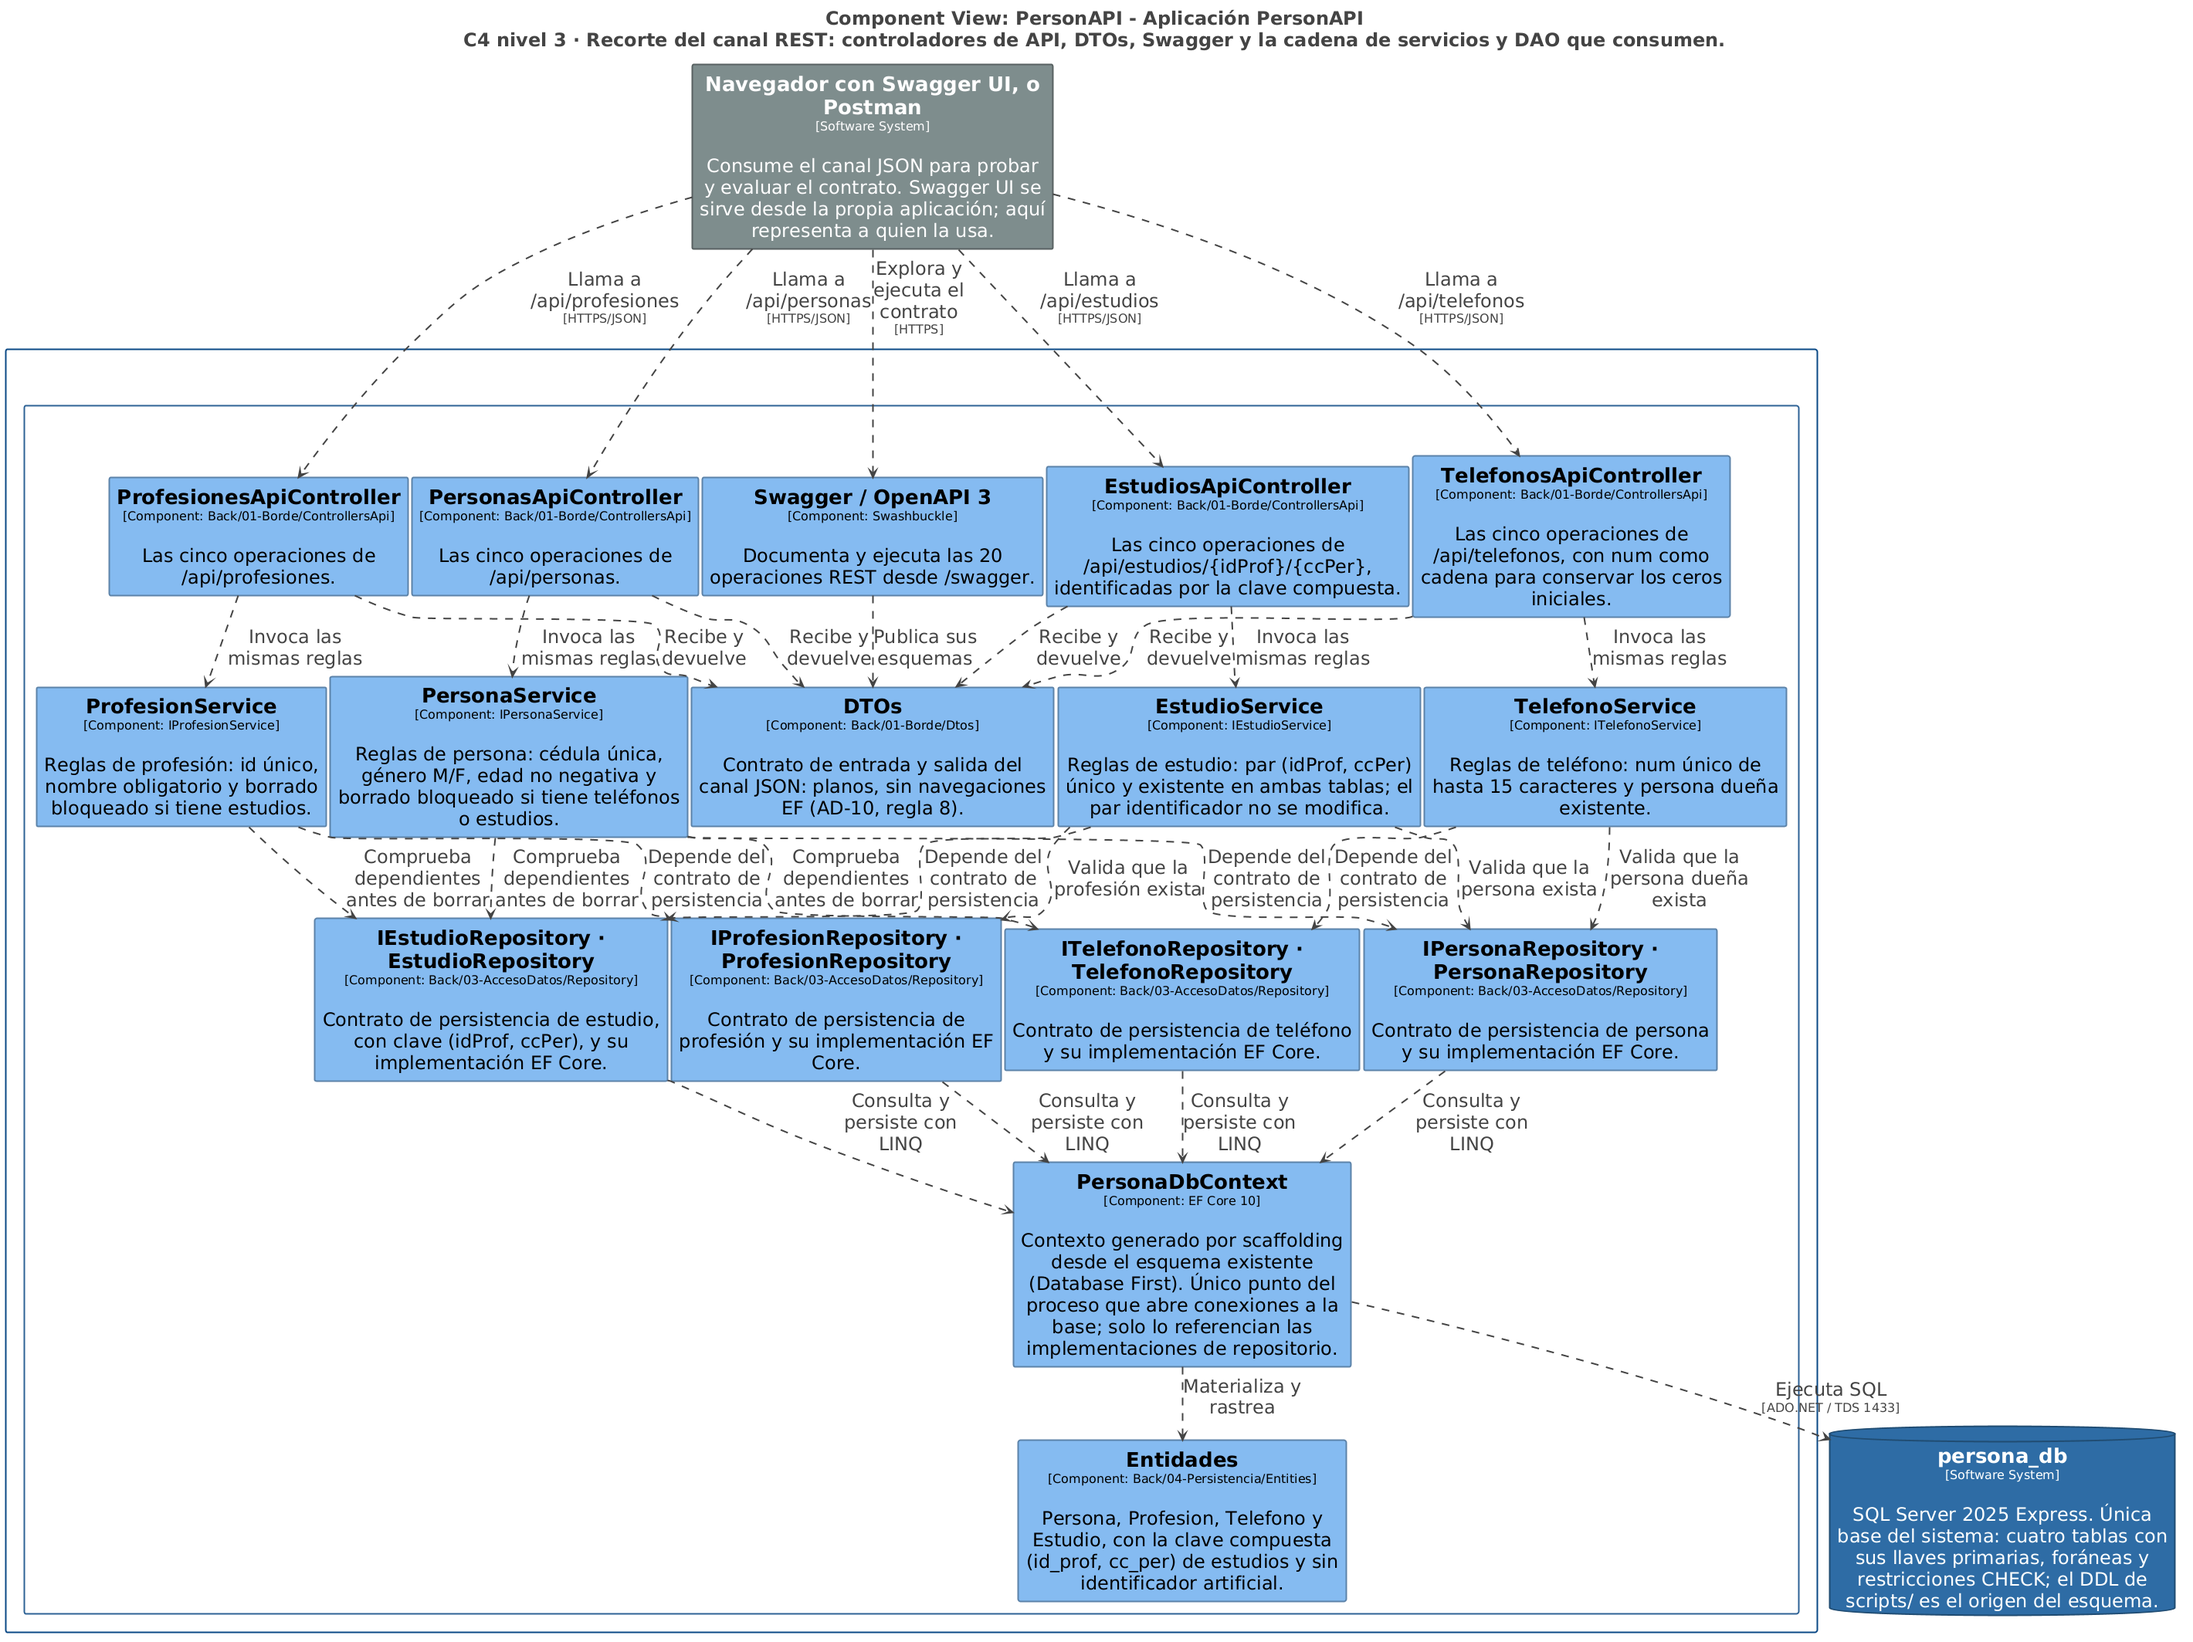
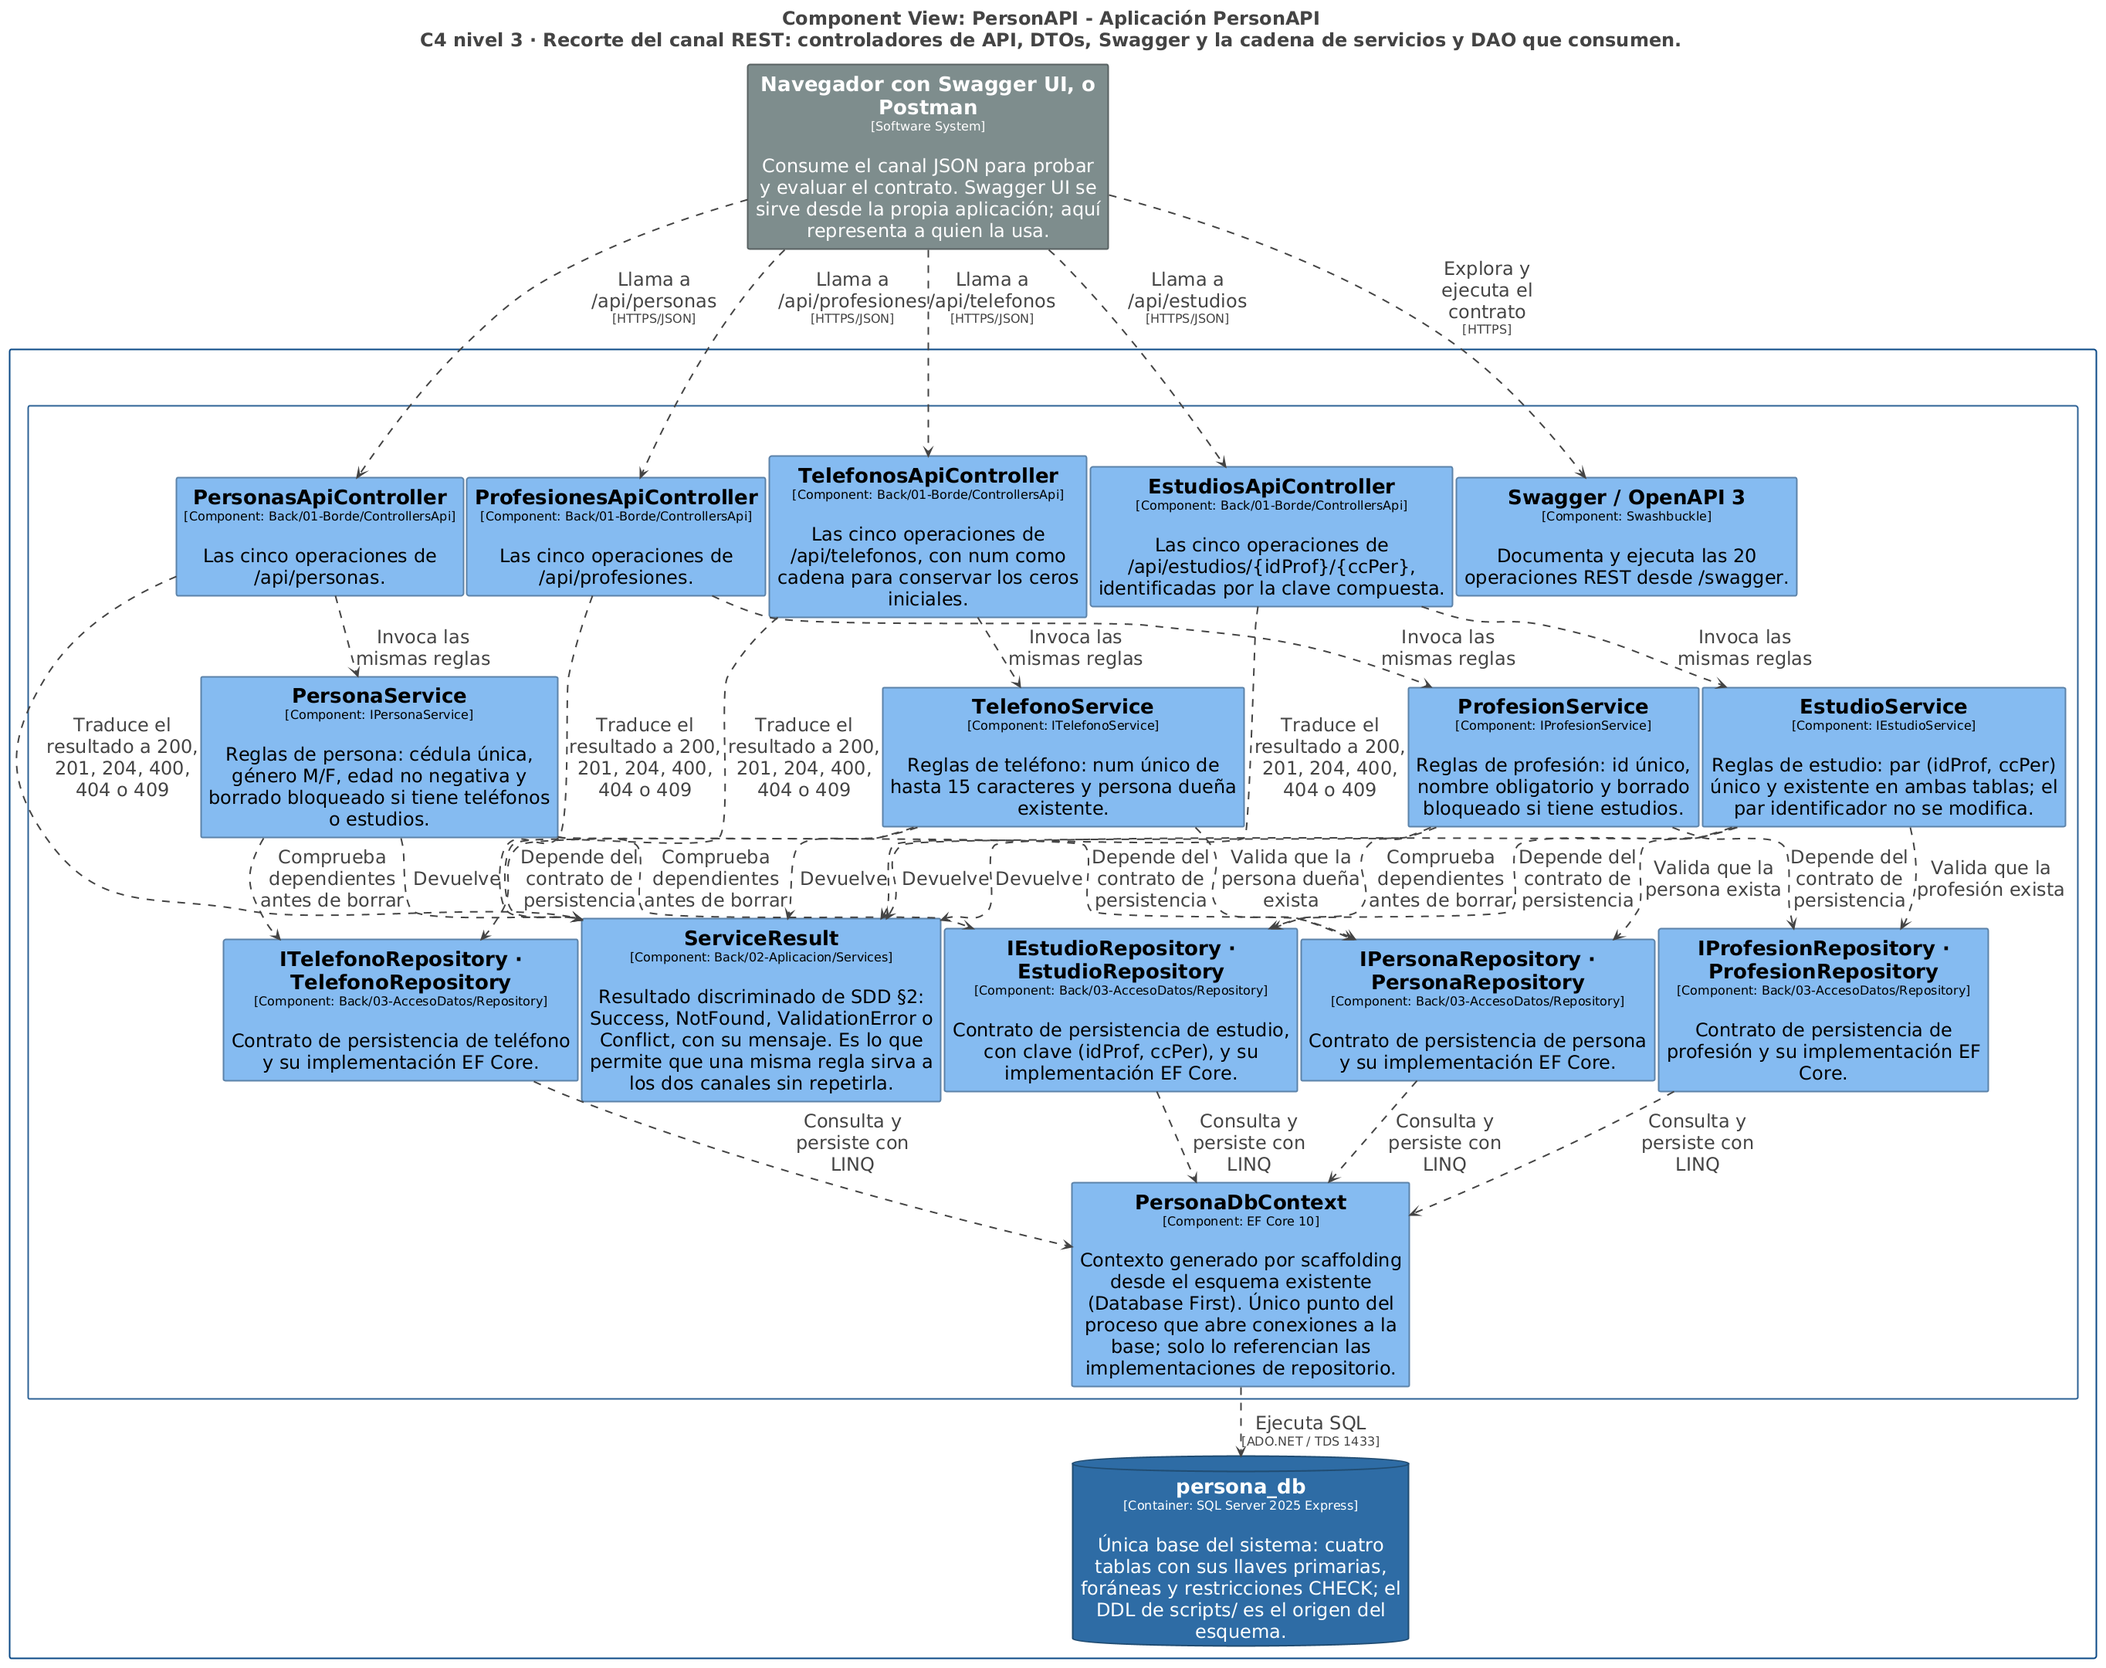
docs(arquitectura): la base vuelve a ser contenedor y el nivel 3 solo lleva componentes [LAB-16]
Dos correcciones de modelado pedidas en la revisión del equipo:

- persona_db deja de ser un sistema propio y vuelve a ser contenedor del
  sistema, que es lo que dice C4 y lo que corresponde a AD-01: la aplicación
  y su base son el mismo sistema. Consecuencia conocida y reportada: la vista
  de contexto ya no la dibuja, porque solo admite personas y sistemas, de modo
  que el pie de figura del informe y el criterio 1 de la historia quedan por
  corregir en sus documentos.
- El nivel 3 deja de mostrar vistas, DTOs y entidades, que son plantillas y
  estructuras de datos, no componentes. Entran en su lugar las piezas con
  comportamiento que nombra el SDD: la convención de errores de HU-006, el
  filtro de antiforgery, el resultado discriminado y la composición de
  Program.cs, esta última en una vista aparte para no cruzar el diagrama del
  informe con once flechas de registro.

Se declaran además las relaciones reales del filtro de antiforgery con los
controladores MVC, para que no quede una caja suelta, y el README de la
carpeta explica las dos decisiones y la diferencia pendiente con el informe.

Changed region(s): [[0.0, 0.0, 0.9971, 1.0], [0.6232, 0.1551, 0.7478, 0.2482]]

diff --git a/docs/wiki/02-arquitectura/diagramas/README.md b/docs/wiki/02-arquitectura/diagramas/README.md
@@ -29,7 +29,8 @@ y su código o su historia está más abajo.
 | `c4-c2-contenedores` | C4 2 · Contenedores | La aplicación ASP.NET Core MVC 10 como **único artefacto desplegable**, sus dos canales y la base `persona_db` |
 | `c4-c3-componentes` | C4 3 · Componentes | El contenedor web completo: cuatro controladores MVC y cuatro de API, un servicio por entidad, las cuatro interfaces DAO con su implementación EF Core, el contexto y las entidades |
 | `c4-c3-componentes-canal-web` | C4 3 · Recorte | Solo el canal MVC, para explicarlo sin el ruido del otro canal |
-| `c4-c3-componentes-canal-json` | C4 3 · Recorte | Solo el canal REST, con DTOs y Swagger |
+| `c4-c3-componentes-canal-json` | C4 3 · Recorte | Solo el canal REST, con Swagger y el resultado discriminado |
+| `c4-c3-componentes-arranque` | C4 3 · Recorte | La composición de SDD §4: qué registra `Program.cs` y con qué ciclo de vida |
 | `c4-despliegue` | Despliegue | Los tres servicios de `docker-compose.yml` (`personapi`, `sqlserver`, `db-init`) en la red `personapi-net` |
 
 Los dos recortes existen porque la vista completa tiene 22 componentes: sirven para la
@@ -105,6 +106,7 @@ incluye:
 | Componentes | [`c4-c3-componentes.png`](../../../informe/diagramas/c4-c3-componentes.png) | sí, figura de nivel 3 |
 | Recorte del canal MVC | [`c4-c3-componentes-canal-web.png`](../../../informe/diagramas/c4-c3-componentes-canal-web.png) | no: material de sustentación |
 | Recorte del canal REST | [`c4-c3-componentes-canal-json.png`](../../../informe/diagramas/c4-c3-componentes-canal-json.png) | no: material de sustentación |
+| Recorte de la composición | [`c4-c3-componentes-arranque.png`](../../../informe/diagramas/c4-c3-componentes-arranque.png) | no: material de sustentación |
 | Despliegue | [`c4-despliegue.png`](../../../informe/diagramas/c4-despliegue.png) | no: el informe tiene su propia figura de despliegue en TikZ |
 
 Las tres primeras son las que `main.tex` referencia por nombre, así que aparecen en el PDF
@@ -115,14 +117,25 @@ Se regeneran desde el `.dsl` cada vez que el modelo cambie; no se editan a mano.
 regenerarlas, **comprobar que la imagen de componentes no quede recortada**: mide unos
 5000 px de ancho y el límite por defecto de PlantUML la corta en silencio.
 
-## Una decisión de modelado que conviene saber
+## Dos decisiones de modelado
 
-`persona_db` se modela como **sistema propio**, no como contenedor dentro de PersonAPI.
-No es un capricho: una vista de contexto de Structurizr solo admite personas y sistemas,
-así que con la base como contenedor el nivel 1 salía **sin la base**, y tanto el pie de
-figura del informe como el primer criterio de HU-016 exigen que aparezca. Modelada como
-sistema, sale en los tres niveles y la relación «lee y escribe» conserva su protocolo.
-Sigue siendo **una sola base**: AD-01 y la regla 1 no cambian.
+**`persona_db` es un contenedor del sistema**, no un sistema externo: en C4 una base de
+datos es un contenedor, y la aplicación y su base son el mismo sistema (AD-01).
+
+Esto tiene una consecuencia que hay que conocer: **el diagrama de contexto no muestra la
+base**, porque una vista de contexto de Structurizr solo admite personas y sistemas. Hoy
+el pie de figura de `main.tex` dice «el usuario, el monolito y SQL Server `persona_db`
+como único almacén», y el primer criterio de HU-016 repite esa frase. Quien decide es el
+modelo C4, no el pie: **la diferencia está reportada** a quien mantiene el informe y al
+backlog, y se corrige allí, no redibujando el diagrama.
+
+**Las vistas, los DTOs y las entidades no son componentes.** Son plantillas y estructuras
+de datos, así que salieron del nivel 3. En su lugar están las piezas que sí tienen
+comportamiento y que el SDD nombra: la convención de errores de HU-006
+(`ResultadoServicioVistaExtensions`), el filtro de antiforgery
+(`AntiforgeryEnVistasConvention`), el resultado discriminado (`ServiceResult`) y la
+composición de dependencias (`Program.cs`, SDD §4), esta última en su propia vista para no
+cargar la del informe con once flechas de registro.
 
 ## Lo que el modelo garantiza
 
@@ -151,7 +164,8 @@ entrega, según el SDD. Comprobado contra `main` en `7d144fb` (28-10-2026).
 | Componente del diagrama | Dónde vive | Historia |
 |---|---|---|
 | `HomeController` y convención de errores | `HomeController`, `AntiforgeryEnVistasConvention`, `ResultadoServicioVistaExtensions` | HU-006 |
-| Vistas Razor y ViewModels | `Front/Views/`, `Front/ViewModels/` | HU-006 y el CRUD de cada módulo |
+| `ResultadoServicioVistaExtensions` | `Back/01-Borde/Controllers/` | HU-006 |
+| `AntiforgeryEnVistasConvention` | `Back/01-Borde/Controllers/` | HU-006 |
 | `PersonasController` | `Back/01-Borde/Controllers/` | HU-007 |
 | `ProfesionesController` | `Back/01-Borde/Controllers/` | HU-008 |
 | `TelefonosController` | `Back/01-Borde/Controllers/` | HU-012 |
@@ -160,11 +174,12 @@ entrega, según el SDD. Comprobado contra `main` en `7d144fb` (28-10-2026).
 | `ProfesionesApiController` | `Back/01-Borde/ControllersApi/` | HU-005 |
 | `TelefonosApiController` | `Back/01-Borde/ControllersApi/` | HU-010 |
 | `EstudiosApiController` | `Back/01-Borde/ControllersApi/` | HU-011 |
-| DTOs | `Back/01-Borde/Dtos/` | la historia REST de cada entidad |
+| `ServiceResult` | `Back/02-Aplicacion/Services/ServiceResult.cs` | HU-004 |
+| `Program.cs` | raíz del proyecto web | HU-001, más una línea por historia de módulo |
 | Swagger / OpenAPI 3 | configuración de Swashbuckle en `Program.cs` | HU-001 y HU-009 |
 | `PersonaService`, `ProfesionService`, `TelefonoService`, `EstudioService` | `Back/02-Aplicacion/Services/` | la historia REST de cada entidad |
 | Las cuatro interfaces DAO y sus implementaciones | `Back/03-AccesoDatos/Repository/` | HU-003 |
-| `PersonaDbContext` y entidades | `Back/04-Persistencia/Entities/` | HU-003 |
+| `PersonaDbContext` | `Back/04-Persistencia/Entities/` | HU-003 |
 | `persona_db` | `scripts/01_ddl.sql`, `scripts/02_dml.sql` | HU-002 |
 | `personapi`, `sqlserver`, `db-init` | `docker-compose.yml`, `Dockerfile` | despliegue declarado en el informe |
 
